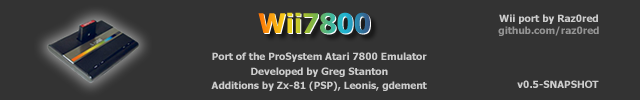
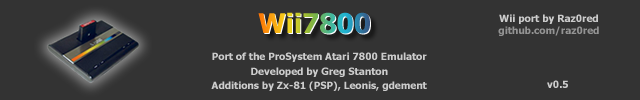
Updated readme files and images for 0.5 release

Changed region(s): [[0.8125, 0.78, 0.9375, 0.9]]

diff --git a/README.md b/README.md
@@ -5,7 +5,7 @@
 
 Ported by raz0red
 
-Wii7800 is a Nintendo Wii port of the ProSystem emulator developed by Greg Stanton. 
+Wii7800 is a port of the ProSystem emulator developed by Greg Stanton. 
 Additional changes developed by Ludovic Jacomme aka Zx-81 (PSP port), Leonis,
 and gdement. Portions of the Pokey code were adapted from the MAME 
 implementation.
@@ -29,26 +29,37 @@ please visit the [Wii7800 page](http://www.wiibrew.org/wiki/Wii7800) on WiiBrew:
 ## Installation
 
 To install Wii7800, simply extract the zip file directly to your SD card 
-(retain the hierarchical structure exactly).
-
-Cartridge images must be placed in the roms directory (/wii7800/roms).
-(Zip files are supported)
-
-Wii7800 does support loading of the Atari 7800 BIOS, although it isn't 
-necessary. If you wish to use the BIOS, simply place the NTSC and PAL BIOS
-files in the (/wii7800) directory. The NTSC file must be named, "7800.rom",
-while the PAL file must be named, "7800pal.rom". 
+or USB device (retain the hierarchical structure exactly).
 
 ## Lightgun Accuracy, etc.
 
-The crosshair for the Wii7800 emulator is not perfect. For example you may be
-pointing at something and your shot may register to the right or left. This is
-due to the way the 7800 handles hit detection for lightgun games. It only 
-checks for a hit every 7 CPU cycles. There are 330 cycles for the visible 
-portion of each frame. Thus, there are only ~47 hit points for each scanline.
-So, the crosshair at best gets you in approximately the right area, and if you
-miss you need to adjust based on where the shot shows up on the screen 
-(exactly how you do it when there is no crosshair). 
+The crosshair for the Wii7800 emulator is not perfect. For example, you 
+may be pointing at something and your shot may register slightly to the 
+right or left. 
+
+## Cartridge Database
+
+Wii7800 ships with a database that contains recommended settings for the 
+majority of commercial and a limited number of homebrew cartridges. These
+settings cover control settings, difficulty switch settings, and 
+cartridge-related settings (cartridge type, Pokey support, XM support, 
+high score cart support, etc.).
+
+To view/edit the settings applied for a particular cartridge perform the
+following steps:
+
+  * Load the cartridge (via the "Load cartridge" menu item)
+  * Return to the Wii7800 menu
+  * Select the "Cartridge-specific settings" menu item
+  * View/edit the settings for the cartridge 
+
+Some settings will not be applied until the settings are saved and the 
+cartridge is reloaded. When one of these settings is modified, a message
+will be displayed indicating that this particular setting requires the 
+cartridge to be reloaded (and the settings saved prior to loading).
+
+Other settings, such as difficulty switch and control settings may not
+be applied until the cartridge is reset (or reloaded). 
 
 ## Cartridge/ROM Compatibility 
 
@@ -152,6 +163,17 @@ This page contains a list of compatible ROMs by "hash code".
             1              : Left difficulty (if enabled)
             2              : Right difficulty (if enabled)
             Home           : Display Wii7800 menu (see above)
+
+## SMB (Network support)	
+
+Wii7800 allows for loading ROMs over the network via SMB. To enable SMB	
+support, you must edit the "wii7800.conf" file located in the "/wii7800"	
+directory and provide values for the following:	
+
+  * share_ip    : IP address of the computer to connect to.	
+  * share_name  : Name of the share on the computer.	
+  * share_user  : Name of the user to connect as	
+  * share_pass  : Password for the user         
            
 ## Wii7800 crashes, code dumps, etc.
 
@@ -173,6 +195,48 @@ the following locations:
 * Team Twiizers    : For enabling homebrew
 
 ## Change log
+
+### 01/28/20 (0.5)
+    - Partial Expansion Module (XM) support
+      - XRAM
+      - XPokey (limited to single Pokey)
+    - Added support for cartridges with sizes greater than 144k
+    - Additional bank switching modes and cartridge types
+    - Multiple bank switching fixes
+    - Reworked cartridge header detection
+      - Now properly detects bank switching, RAM, etc.
+      - Detects Expansion Module (XM)
+      - Detects High score cartridge
+      - Detects Pokey at $0450
+    - Cartridge database 
+      - Added ability to edit cartridge database settings via menu
+      - Added several new cartridge properties
+        - Pokey at $0450
+        - Default difficulty switch settings
+        - Expansion Module (XM) enabled/disabled
+        - High score cartridge enabled/disabled
+      - Database content
+        - Fixed incorrect controller settings for Sirius, Crossbow, 
+            and Alien Brigade
+        - Added many homebrew cartridges
+    - Display enhancements
+      - Double strike (240p)
+      - GX+VI mode
+      - 16:9 correction
+      - Full widescreen support      
+      - Ability to enable/disable bilinear filter (GX mode)
+      - Color trap filter
+      - Multiple default screen sizes
+    - Hierarchical file navigation support
+    - USB Support
+    - SMB (Network support) for loading ROMs  
+    - Multi-save slot support
+    - Reworked menu system (cartridge-specific settings, etc.)
+    - Support for launching via WiiFlow (and returning)  
+    - Fixed VSYNC issue which caused initial stutter on PAL games
+    - Fixed issue occurring when Kangaroo and Holey were enabled (caused 
+        background to be displayed, resulting in large black squares)
+    - Several audio improvements (eliminated majority of TIA and Pokey pops)
 
 ### 11/16/19 (0.4)
     - Reworked audio integration (resolves audio clipping and popping)
@@ -239,4 +303,3 @@ the following locations:
     - Controls support for Wiimote/Nunchuk/Classic/Gamecube controllers
     - Analog controls support
     - Dual analog support for Gamecube/Classic controllers (Robotron)
-    
